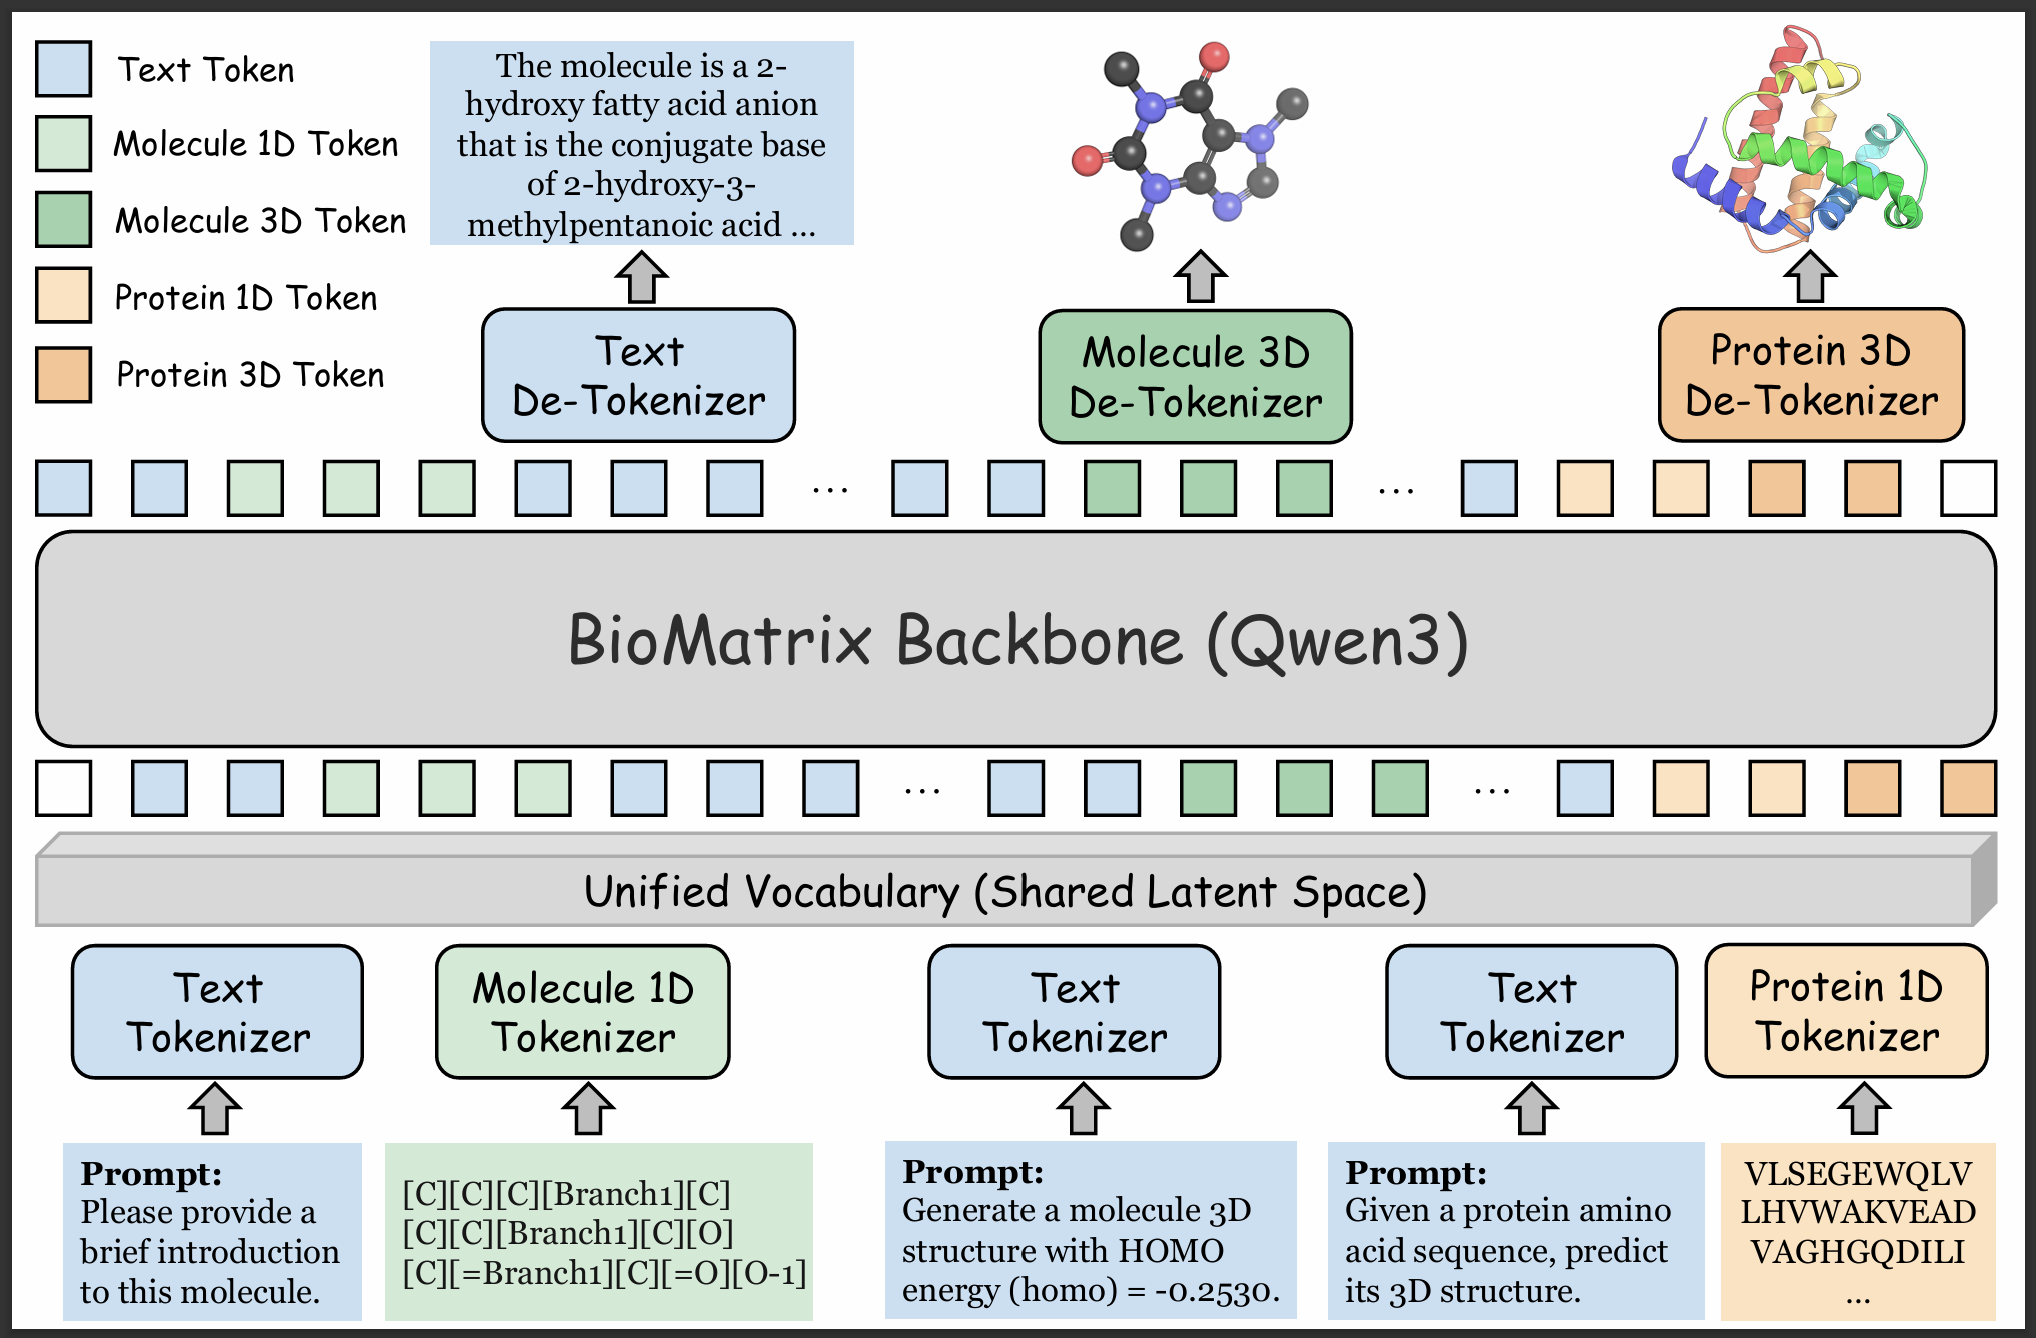
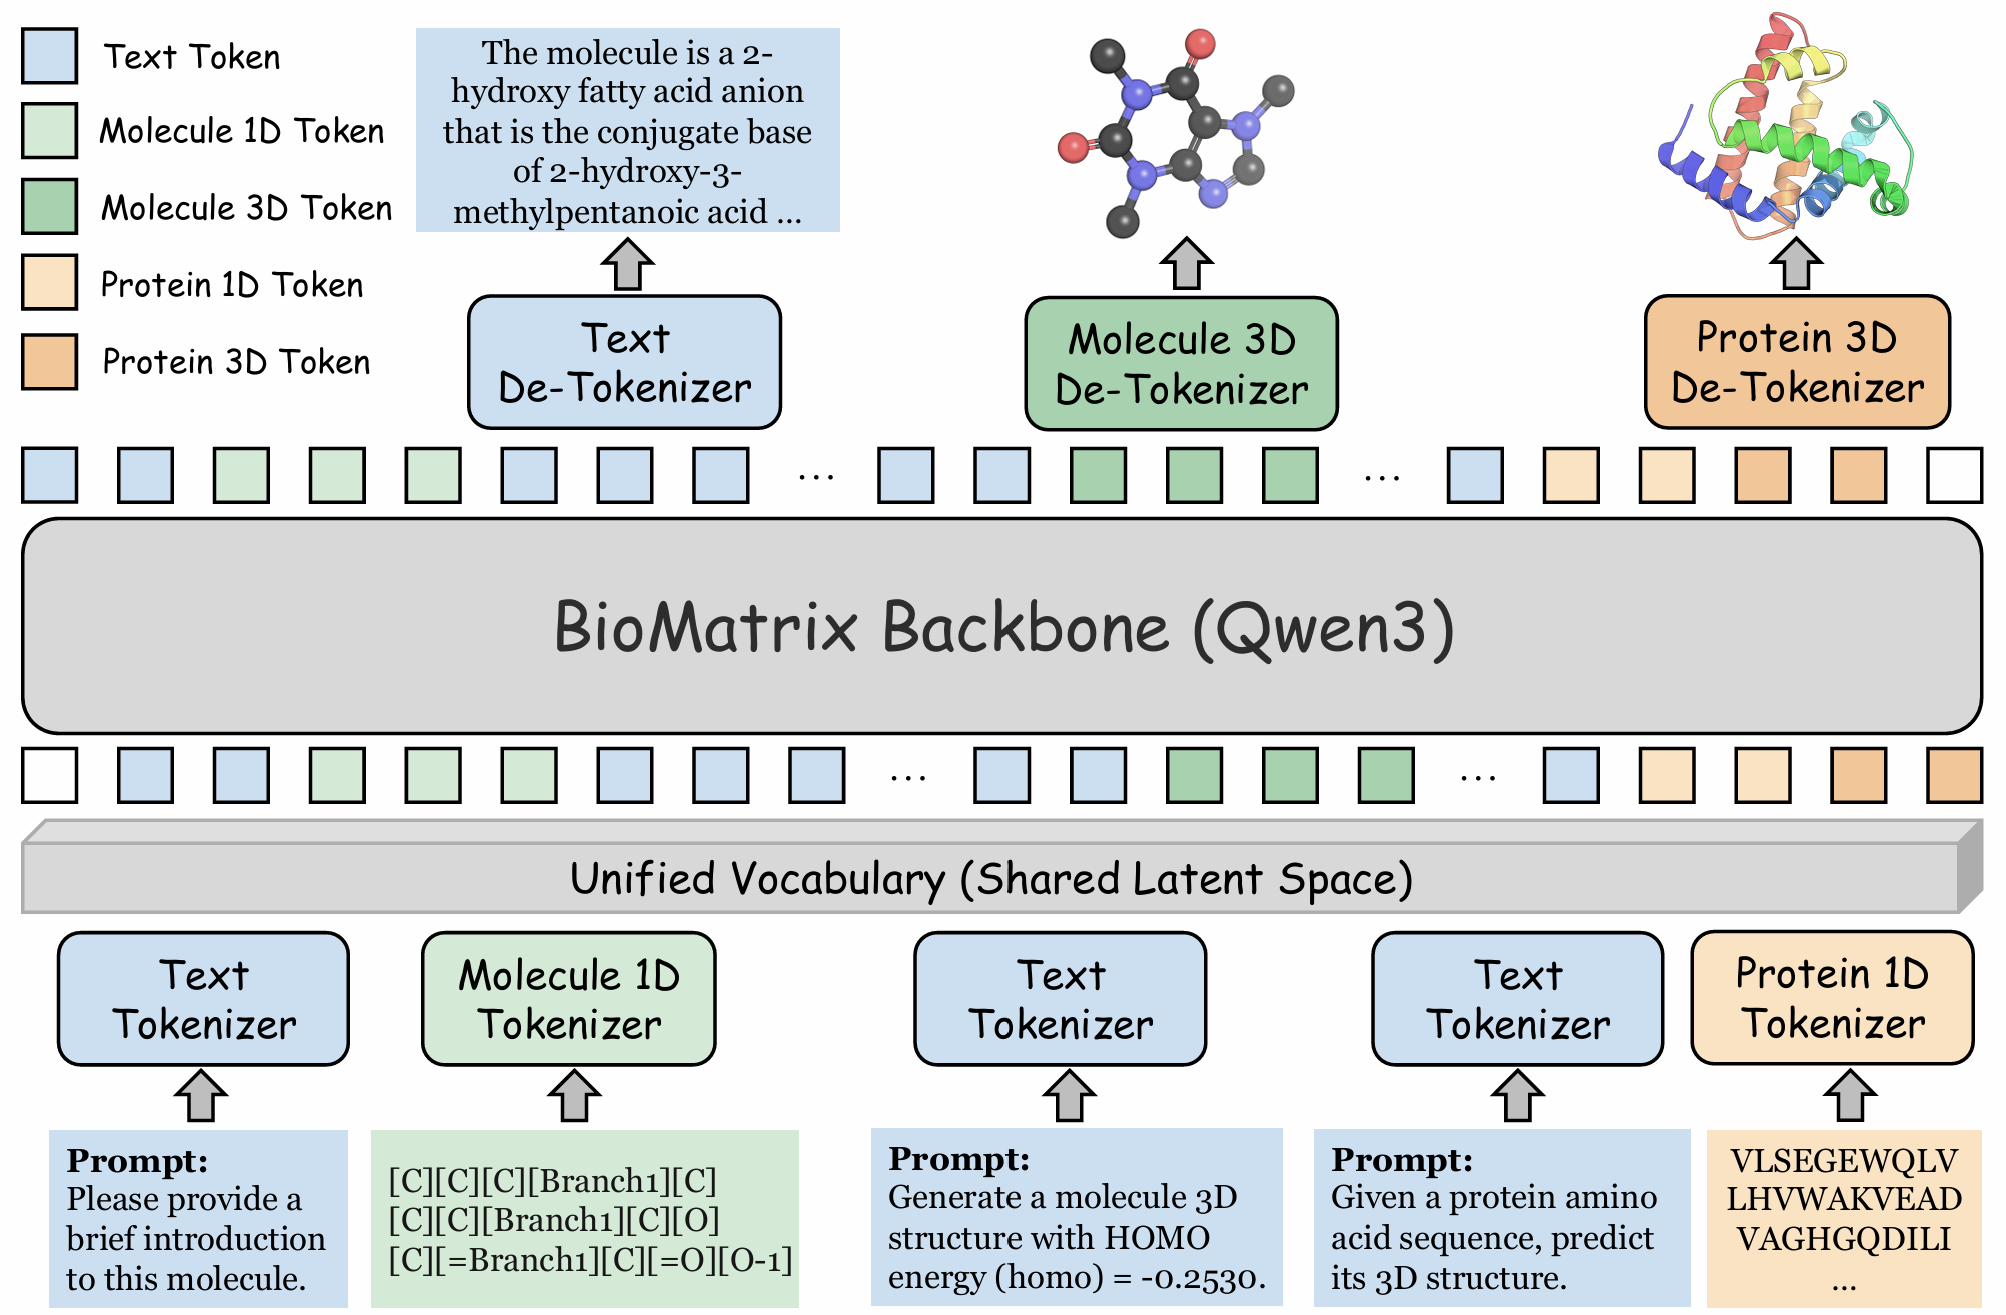
Polish homepage content and assets

Changed region(s): [[0.0, 0.0, 1.0, 1.0], [0.2782, 0.4365, 0.7418, 0.4989]]

diff --git a/assets/css/main.scss b/assets/css/main.scss
@@ -122,8 +122,7 @@
 
     img {
         width: 100%;
-        aspect-ratio: 16 / 10;
-        object-fit: cover;
+        height: auto;
         border: 0;
         box-shadow: 0 10px 14px rgba(0, 0, 0, .28);
     }
@@ -145,6 +144,11 @@
 .pub-note {
     color: #555;
     font-size: .9em;
+}
+
+.paper-highlight {
+    color: #dc143c;
+    font-weight: 700;
 }
 
 .pub-links {

diff --git a/_pages/about.md b/_pages/about.md
@@ -12,18 +12,19 @@ redirect_from:
 
 # About Me
 
-I am an undergraduate student at [Renmin University of China](https://www.ruc.edu.cn/), majoring in Economics and pursuing a second major in Artificial Intelligence.
+I am an undergraduate student at [Renmin University of China](https://www.ruc.edu.cn/), majoring in Economics but pursuing in Artificial Intelligence.
 
-My research interests lie in **Scientific AI** and **agents for scientific tasks**, with a current focus on biological sequence modeling, regulatory genomics, scientific knowledge extraction, and biological foundation models.
+My research interests lie in **Scientific AI** and **LLM agents for scientific tasks**.
 
-I have been fortunate to work with Prof. [Bing Su](https://gsai.ruc.edu.cn/bingsu) at RUC, Dr. [Lijun Wu](https://apeterswu.github.io/) at Shanghai AI Laboratory / OpenDataLab, and Prof. [Chuan Cao](http://bjzgca.edu.cn/teacher/7af51beaba764c4cbca0615ff5d5f52d) at Zhongguancun Academy.
+I have been fortunate to work with Prof. [Bing Su](https://gsai.ruc.edu.cn/bingsu) at RUC, Dr. [Lijun Wu](https://apeterswu.github.io/) at Shanghai AI Laboratory, and Prof. [Chuan Cao](http://bjzgca.edu.cn/teacher/7af51beaba764c4cbca0615ff5d5f52d) at Zhongguancun Academy.
 
 <span class='anchor' id='news'></span>
 
 # News
 
 - *2026.06*: BioMatrix technical report is available on arXiv.
-- *2026.06*: Our reasoning-informed regulatory DNA activity prediction work was accepted to KDD 2026.
+- *2026.06*: Our work on enabling LLMs to understand DNA through structured biological knowledge was accepted to KDD 2026.
+- *2026.04*: Scientific data foundation [SciVerse](https://sciverse.space/) was released. [News](https://mp.weixin.qq.com/s/C5otOrUXM3yrOnsqDaHMSw)
 - *2026.02*: Prism was accepted to ICLR 2026 as an Oral presentation.
 
 <span class='anchor' id='publications'></span>
@@ -41,7 +42,7 @@ I have been fortunate to work with Prof. [Bing Su](https://gsai.ruc.edu.cn/bings
 
 Zhao Yang<sup>*</sup>, **Yi Duan**<sup>*</sup>, Jiwei Zhu, Ying Ba, Chuan Cao, Bing Su
 
-**ICLR 2026**, Oral, 1.15% of submitted papers
+**ICLR 2026**, <span class="paper-highlight">Oral, 1.15% of submitted papers</span>
 
 <span class="pub-links"><a href="https://github.com/yangzhao1230/Prism"><i class="fab fa-github"></i> Code</a></span>
 
@@ -94,6 +95,18 @@ An end-to-end retrosynthesis planning framework that uses generative reasoning a
 </div>
 </div>
 
+<span class='anchor' id='competitions'></span>
+
+# Competitions
+
+- **Top 2 team**, [CURE-Bench @ NeurIPS 2025](https://curebench.ai/), Track 1: Internal Model Reasoning.
+
+<span class='anchor' id='educations'></span>
+
+# Educations
+
+- *2023.09 - 2027.06 (expected)*, B.A. in Economics; Minor in Artificial Intelligence, Renmin University of China.
+
 <span class='anchor' id='internships'></span>
 
 # Internships
@@ -114,7 +127,9 @@ AI4Science research on gene expression prediction and regulatory DNA activity mo
 **Research Intern**, [Shanghai Artificial Intelligence Laboratory](https://www.shlab.org.cn/) / [OpenDataLab](https://opendatalab.com/)  
 Remote · Sep. 2025 - Jun. 2026
 
-Contributed to SciVerse and Sci-Align for scientific foundation datasets, focusing on life-science literature knowledge extraction and biological foundation model evaluation.
+Contributed to [SciVerse](https://sciverse.space/) and Sci-Align for scientific foundation datasets, focusing on life-science literature knowledge extraction and biological foundation model evaluation.
+
+<span class="pub-links"><a href="https://sciverse.space/"><i class="fas fa-link"></i> Project</a><a href="https://huggingface.co/collections/opendatalab/sciverse"><i class="fas fa-database"></i> Dataset</a></span>
   </div>
 </div>
 
@@ -127,9 +142,3 @@ Beijing, China · Mar. 2026 - May 2026
 Selected for the ["Shenlan" Visiting Program](https://www.bza.edu.cn/detail/ssksfnzebq3qvhqvukyiko6zlavqprmh) and continued collaborative research on interpretable AI models for biological sequence analysis.
   </div>
 </div>
-
-<span class='anchor' id='competitions'></span>
-
-# Competitions
-
-- **Top 2 team**, [CURE-Bench @ NeurIPS 2025](https://curebench.ai/), Track 1: Internal Model Reasoning.
